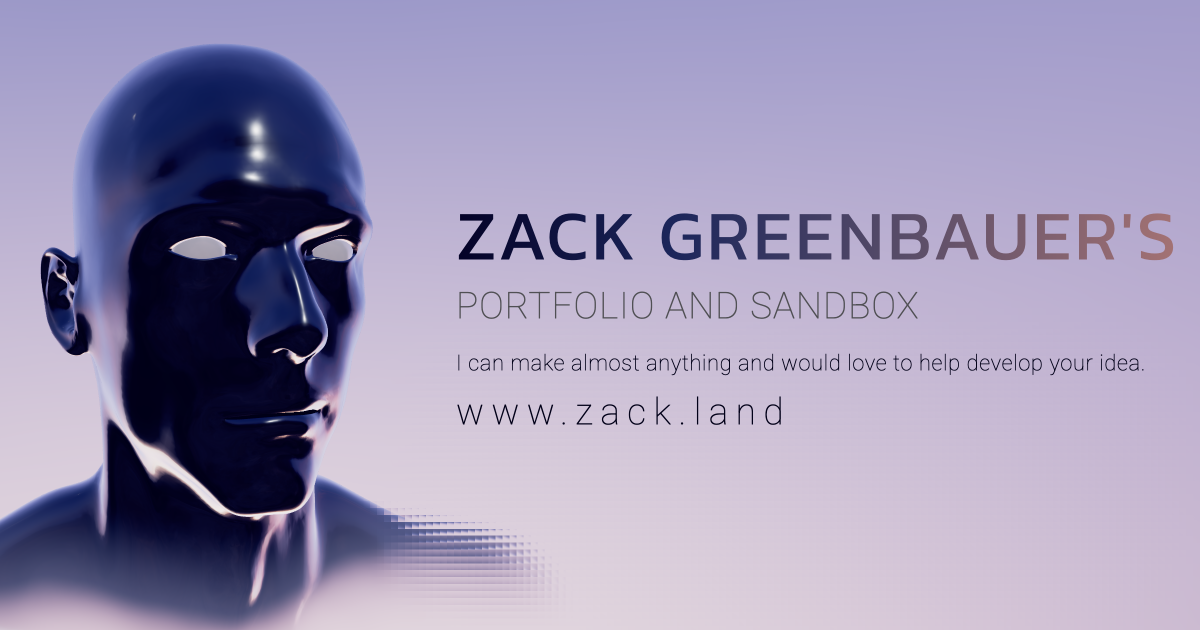
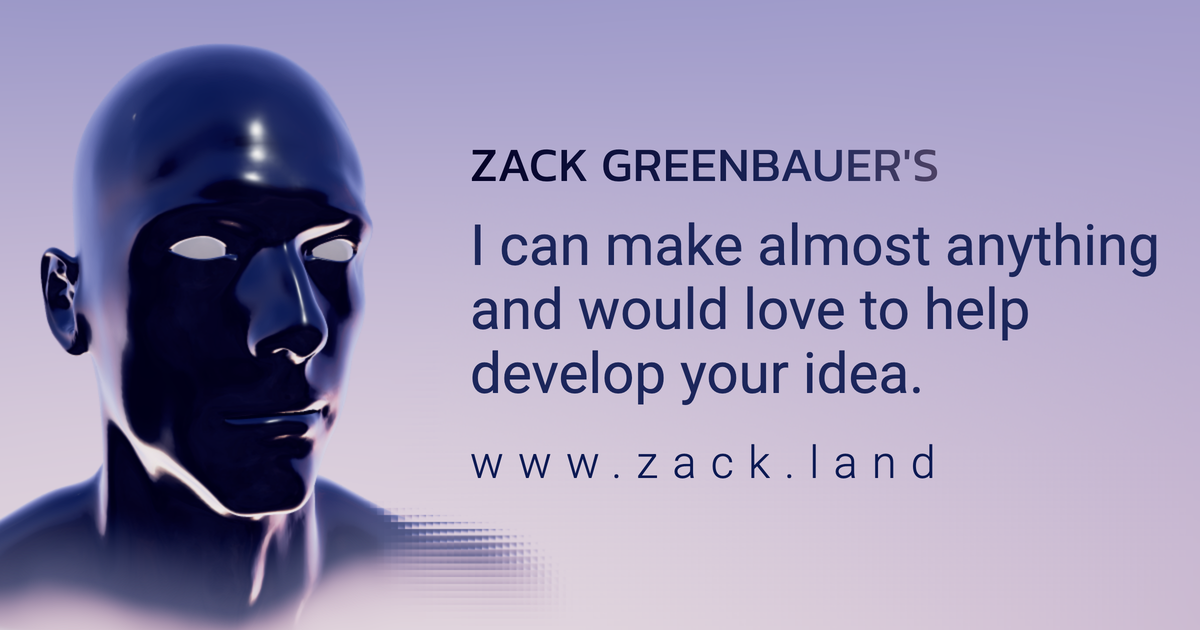
feat(brand): share images readable at preview size
Link previews show og-image.png about 400px wide, where its tagline was
about 6px tall. The link card and square post now set the whole tagline
as the headline (Roboto regular), the name small above it and the domain
widely spaced below. The head and glass are the original renders; only
the text was painted out and reset.

Not test-worthy: image assets and docs only.

diff --git a/public/brand/README.md b/public/brand/README.md
@@ -28,6 +28,11 @@ The dawn palette (`theme/head.json`):
   the site sets it.
 - **The head** faces right of the camera with a neutral face, and a strip of the
   site's glass lies over the shoulders only, never the face.
+- **Share images** (`og-image.png` and `instagram-1080x1080.png`) are read at
+  about a third of their size, so their text is set to be read there: the name
+  small above, the whole tagline as the headline in Roboto regular (light is too
+  thin at that size), then the domain. The subtitle is left off, as the link
+  preview's own title and description already say it.
 
 ## Assets
 
@@ -55,7 +60,9 @@ it turns right without squinting or raising its brows), the sky held at a fixed
 turn per image (`scene.backgroundRotation` and `scene.environmentRotation`, as
 `components/Background/Sky.tsx` sets them), the title, subtitle, tagline and
 domain placed over it, and a glass card (any `section`) laid over the shoulders.
-The render scripts are not kept in the repository.
+The share images' text was later reset on the same renders: the old text was
+painted out with a smooth fit of the sky around it, and the head and glass were
+left as rendered. The render scripts are not kept in the repository.
 
 ## Link previews (wired in `app/layout.tsx`)
 
